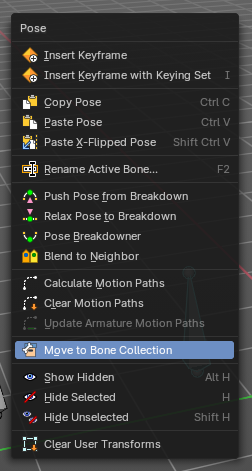
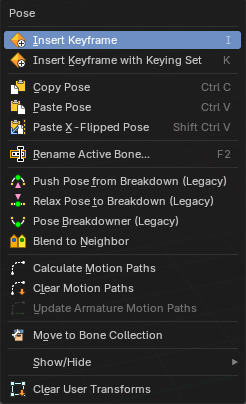
Pose context menu: Show/Hide submenu (#1358)

diff --git a/docs2/content/editors/3d-viewport/armature/pose.md b/docs2/content/editors/3d-viewport/armature/pose.md
@@ -992,7 +992,7 @@ This is for having more than one armature part selected. Scales or rotates the s
 
 ![Pose Mode - Pose Context Menu](/docs2/images/editors/3d-viewport/context-menus/armature-pose-mode-pose-context-menu/pose-mode-pose-context-menu.png)
 
-Call this menu with double right click in the 3D viewport. You need to be in Edit mode with an armature object.
+Call this menu with a right click in the 3D viewport while you are in Pose Mode with an armature.
 
 #### Insert Key frame
 
@@ -1241,27 +1241,29 @@ Armature and bones have their own collection system. This menu item opens a popu
 | Bone List | Assigns or unassigns the selected bones to or from the collection. The green + icon and red – icon show if you can remove or add a bone to the listed collection. |
 
 
-#### Show Hidden
+#### Show/Hide submenu
+
+The show and hide commands are grouped in a **Show/Hide** submenu, like in the other context menus.
+
+##### Show Hidden
 
 Reveals the hidden bones.
 
-#### Hide Selected
+##### Hide Selected
 
 Hides the selected bones.
 
-##### Last Operator Hide Selected
+###### Last Operator Hide Selected
 
 ![Last Operator Hide Selected](/docs2/images/editors/3d-viewport/context-menus/object-mode-object-context-menu/last-operator-hide-selected.png)
 
-###### Unselected
+**Unselected**: hide the unselected bones instead.
 
-Hide unselected bones too.
+##### Hide Unselected
 
-#### Hide Unselected
+Hides all bones that are not selected.
 
-Makes all unselected bones hidden.
-
-##### Clear User Transforms
+#### Clear User Transforms
 
 Resets Pose of selected bones back to key frame state.
 
